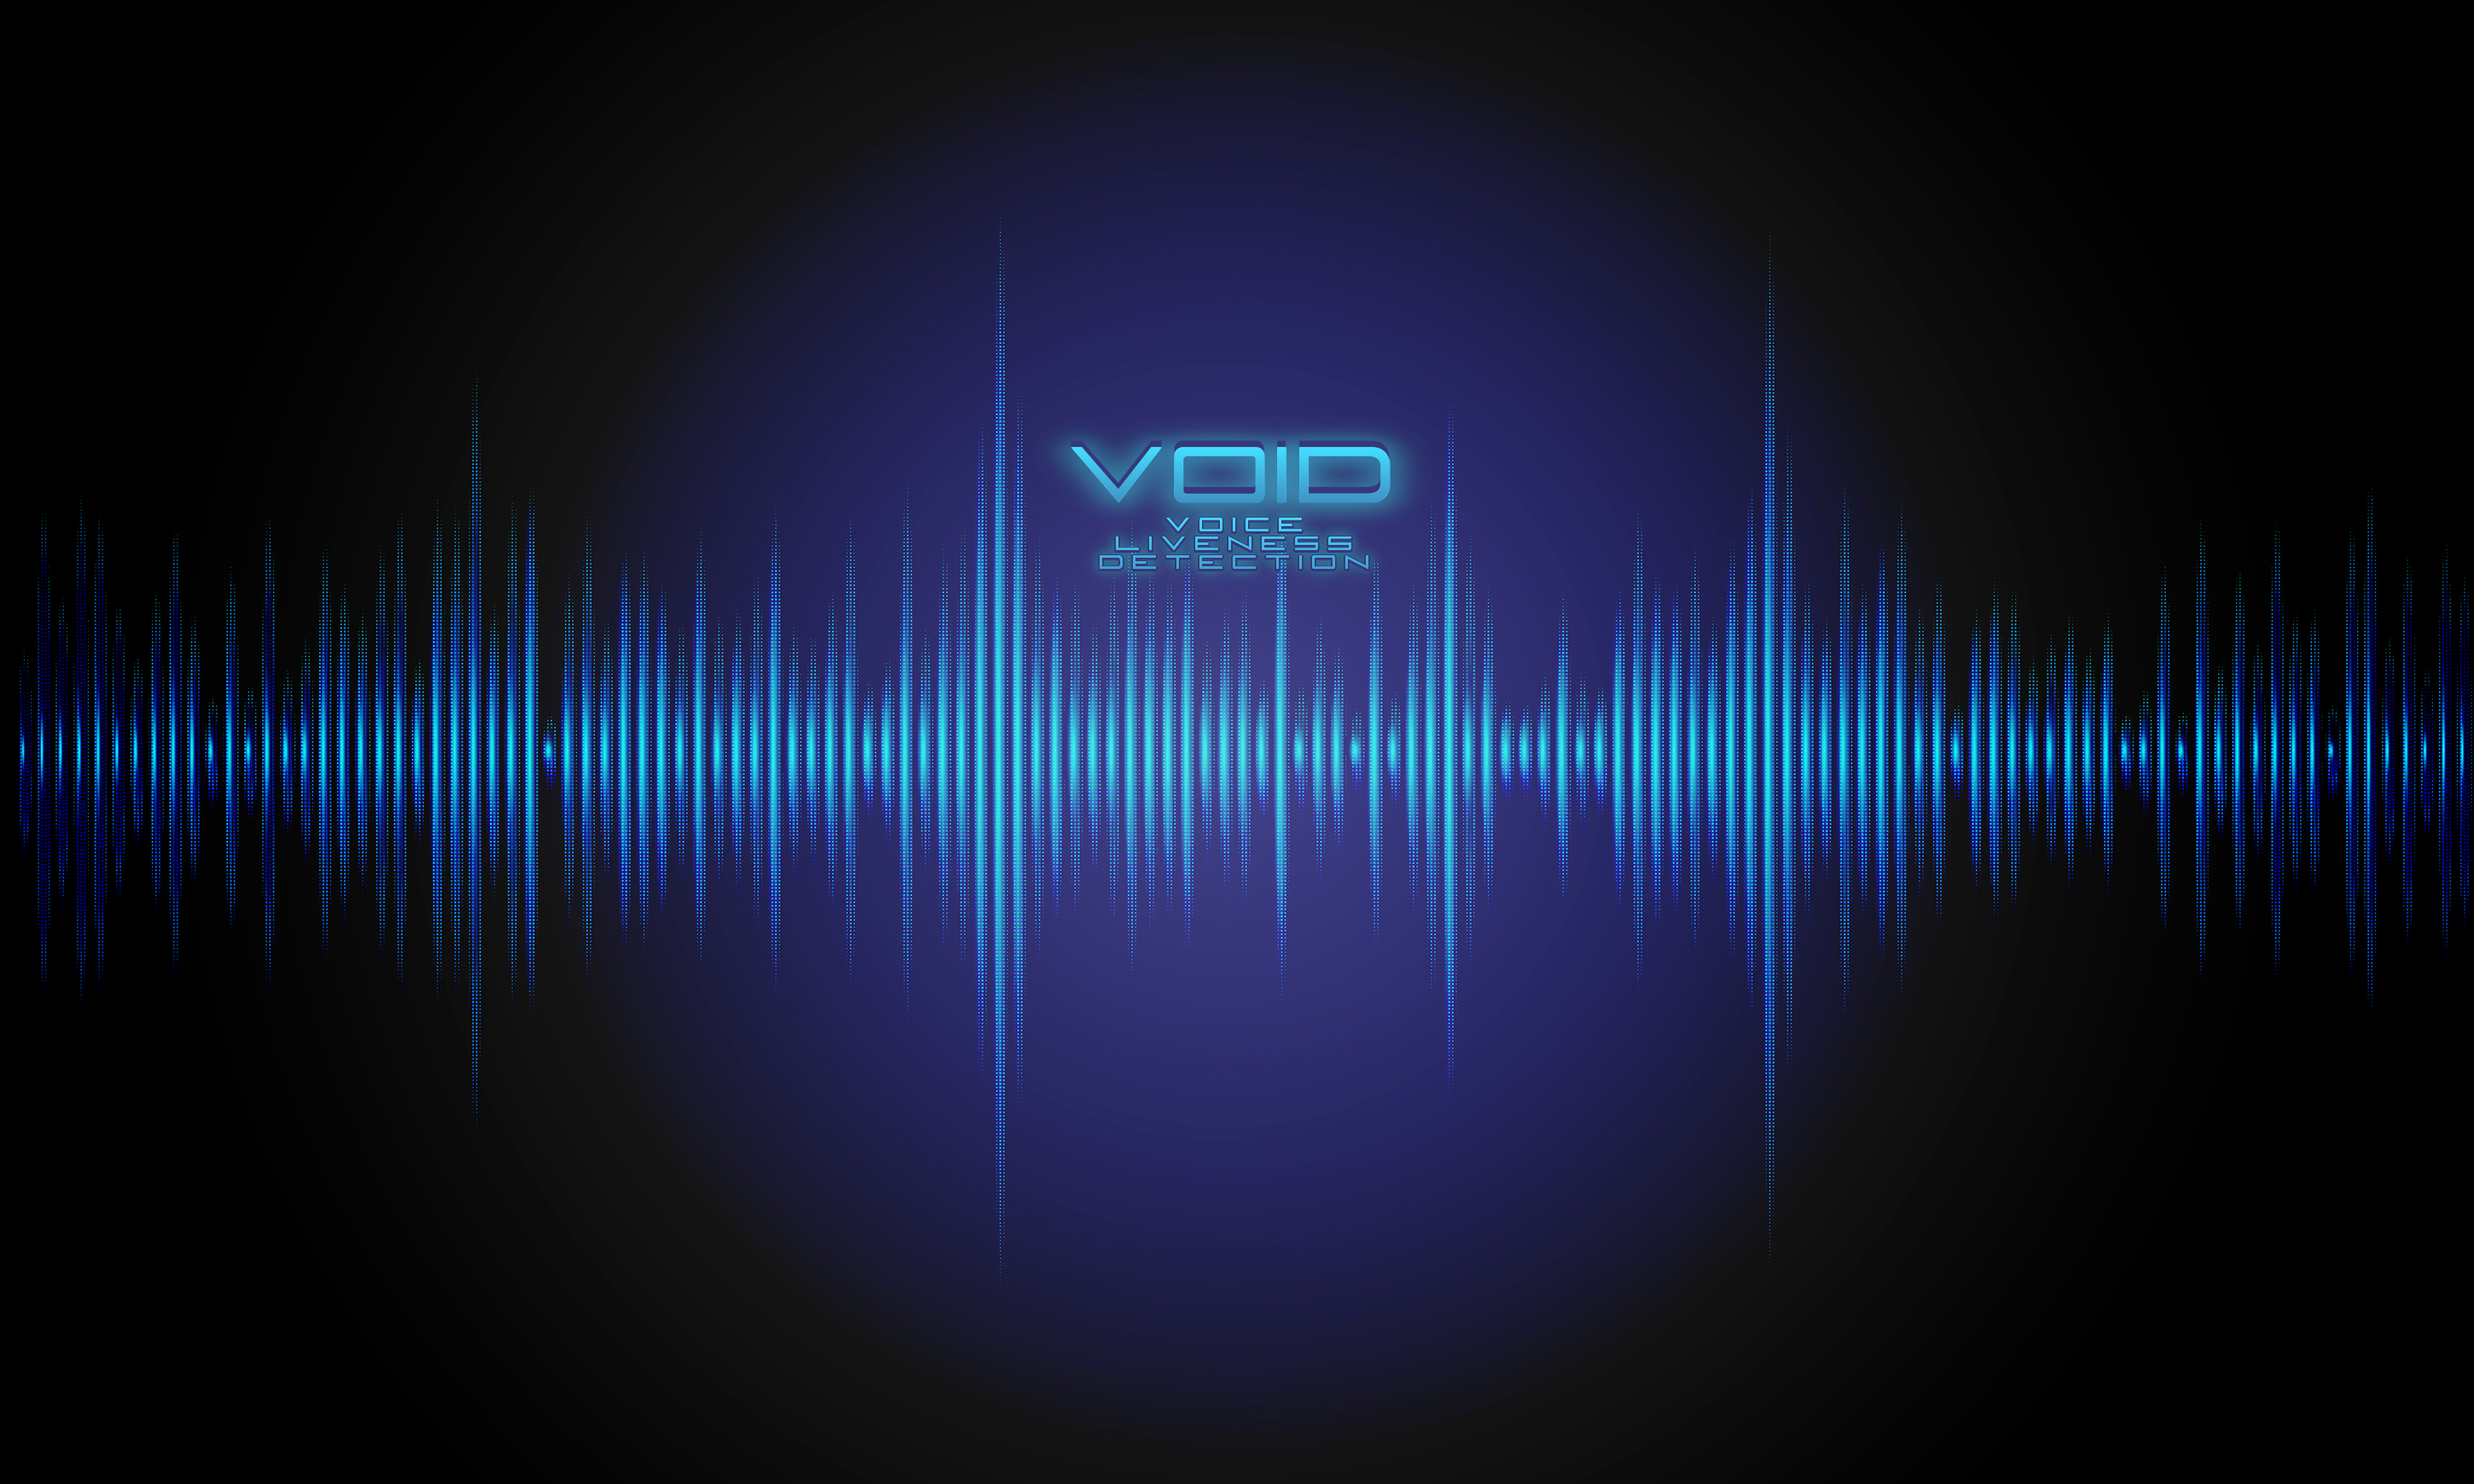
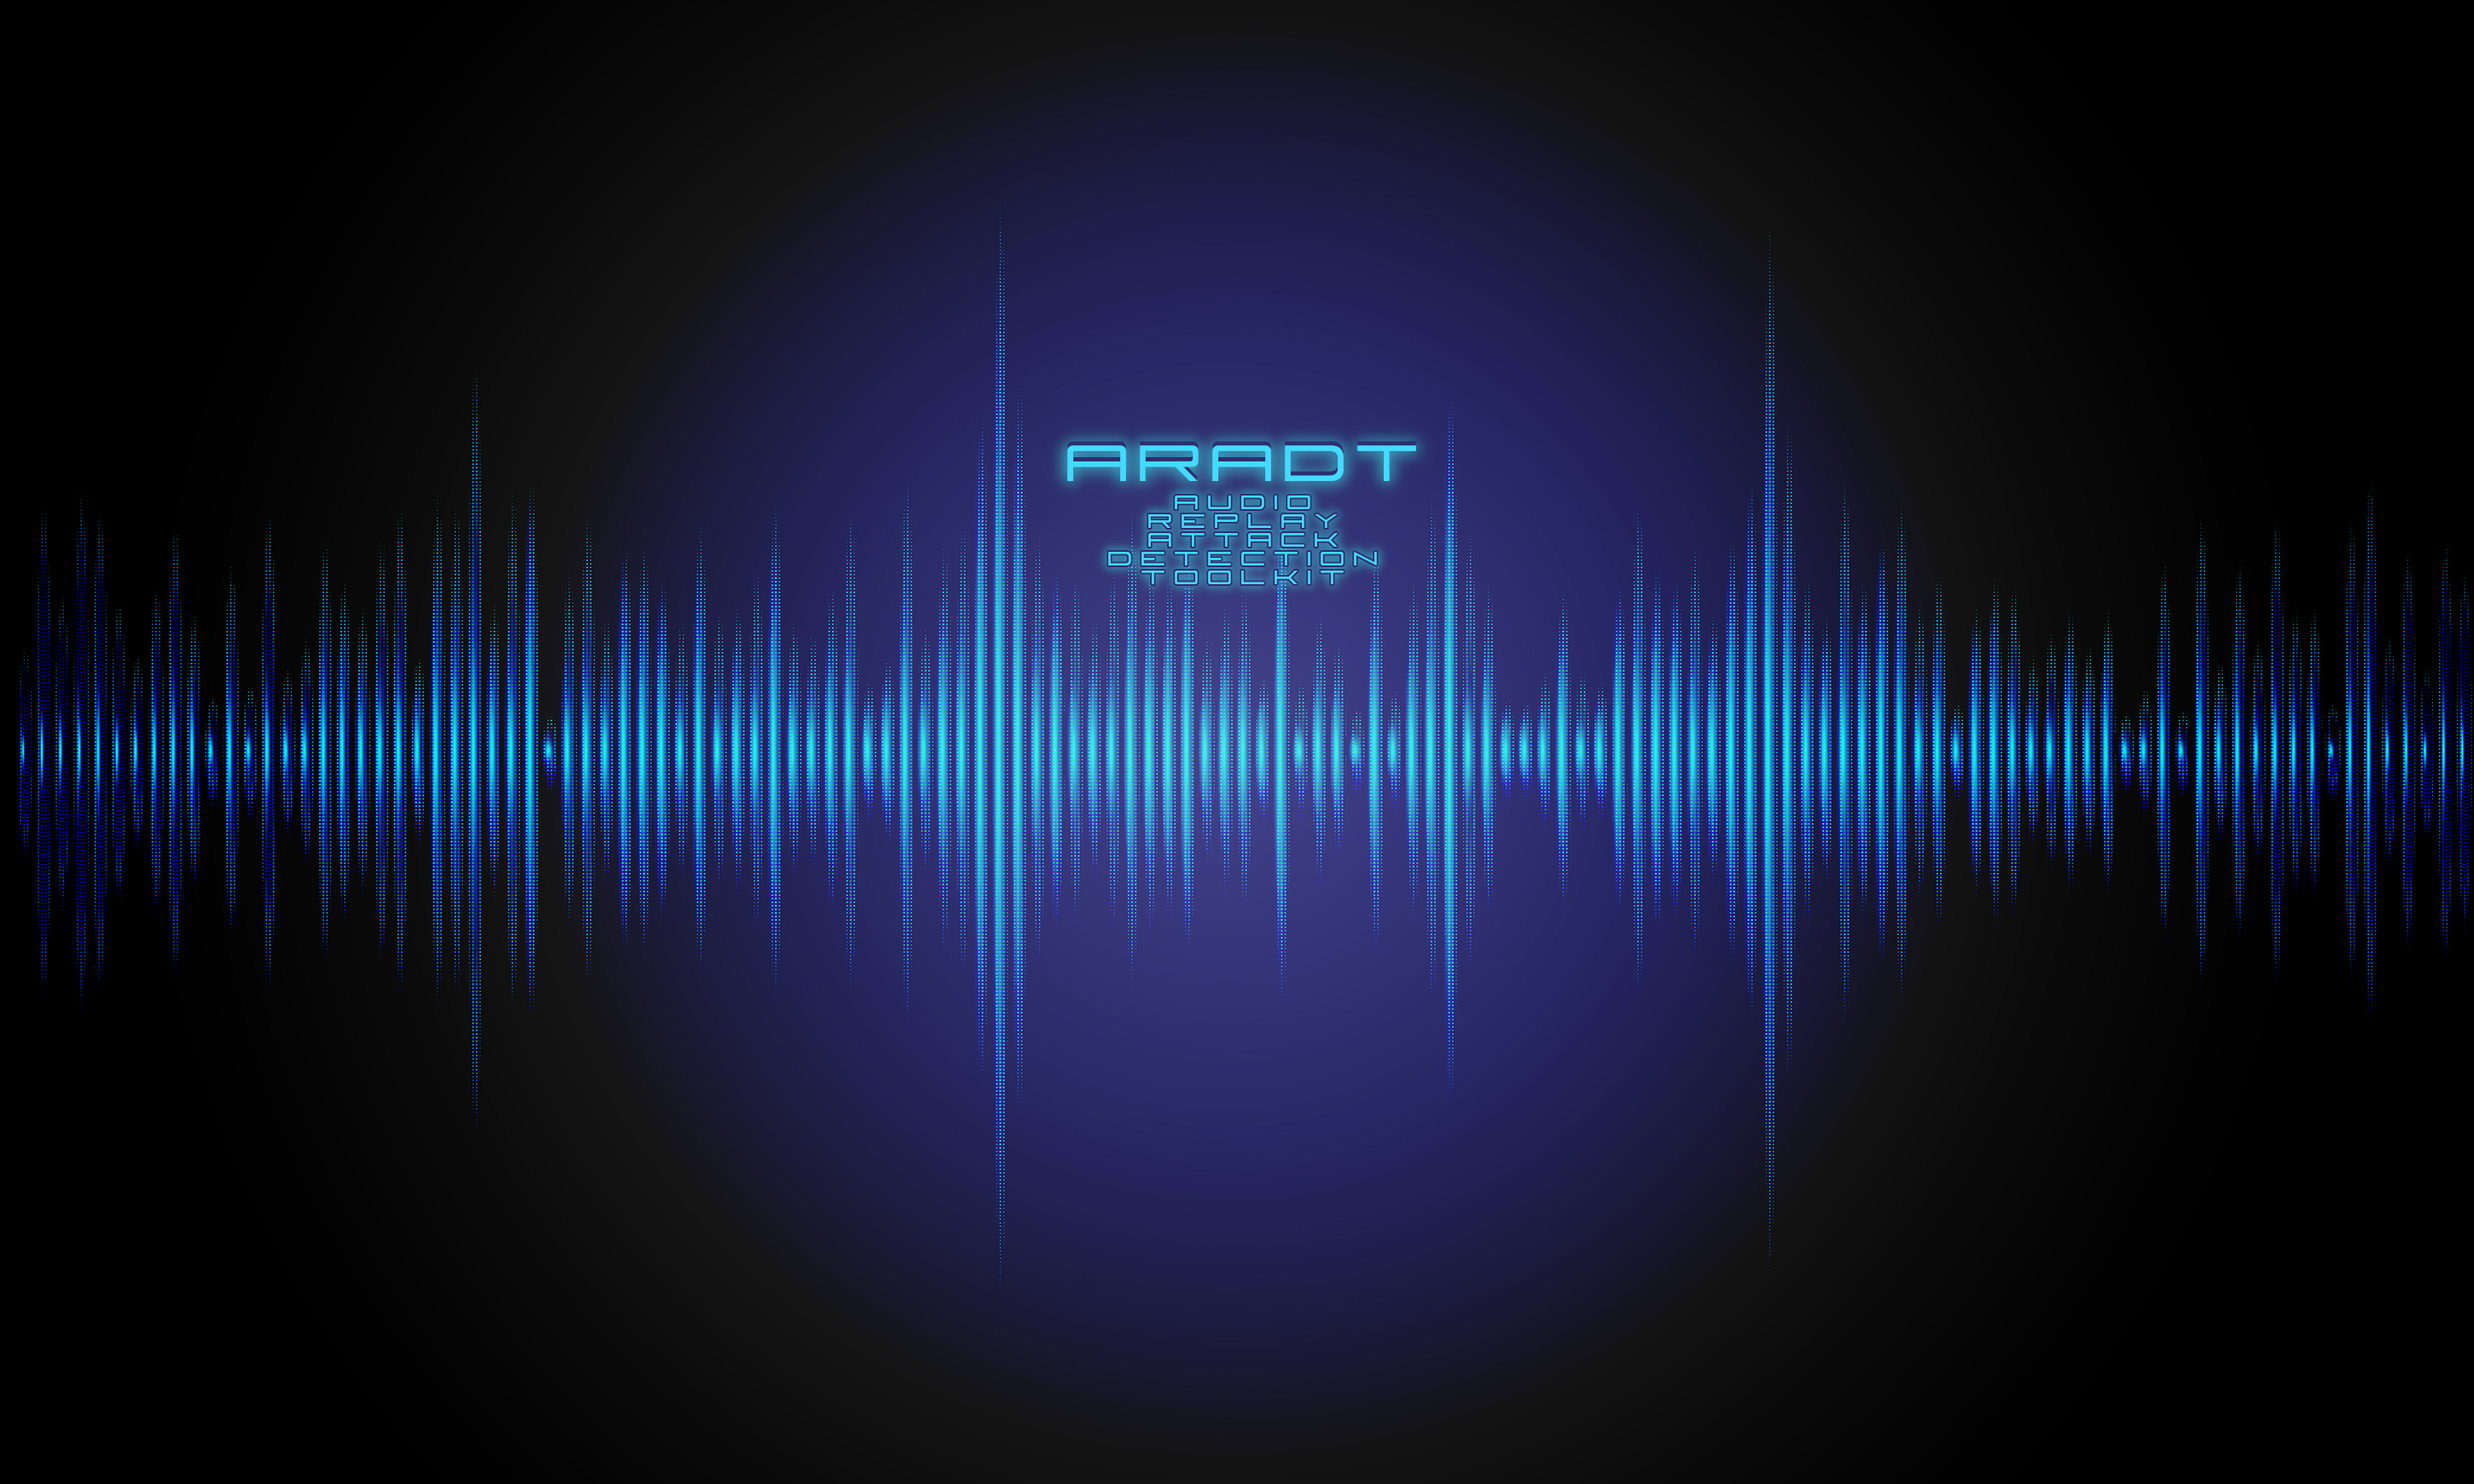
Improved Sample Loading/Storage functionality. Minor Button & Aesthetic Changes

Changed region(s): [[0.4345, 0.2793, 0.5897, 0.4034]]

diff --git a/Code/Main.py b/Code/Main.py
@@ -32,17 +32,43 @@ valid_models = ['SVM', 'svm', 'KNN', 'knn', 'nn', 'NN', 'mlp', 'MLP', 'RF', 'rf'
 def show_frame(frame):
     frame.tkraise()
 
-def load_samples():
-    global samples
+class SampleLoader():
+    def __init__(self):
+        self.samples = []
+        self.new_paths_list = []
+        self.error_str = ''
+        self.error = False
 
-    # Prompt User to Specify files to load in
-    samples  = filedialog.askopenfilenames(parent=frame1, initialdir='Samples/', title='Select Audio Files')
-    if samples:
-        print('Loaded in the following files: {}'.format(samples))
-        messagebox.showinfo('Samples Loaded!', 'The Selected Samples have been loaded in, click \'Store Samples\' to load them into the GUI Program')
-    else:
-        print('No files were selected')
-        messagebox.showinfo('Samples not Loaded!', 'No Audio Files were specified to be loaded in')
+        self.ask_for_samples()
+        self.load_samples()
+
+    def ask_for_samples(self):
+        self.samples  = filedialog.askopenfilenames(parent=frame1, initialdir='Samples/', title='Select Audio Files')
+        if len(self.samples) > 0:
+            print('Loaded in the following files: {}'.format(self.samples))
+        else:
+            print('No files were selected')
+            messagebox.showinfo('Samples not Loaded!', 'No Audio Files were specified to be loaded in')
+
+    def load_samples(self):
+        for sample in self.samples:
+            try:
+                new_path = shutil.copy(sample, 'Samples/')
+                self.new_paths_list.append(new_path)
+            except Exception as ex:
+                self.error_str += f'{ex}\n'
+                self.error = True
+                pass
+
+        if self.new_paths_list:
+            print('Selected Files have been stored in the Samples Directory')
+            print('New File Paths: {}'.format(self.new_paths_list))
+            messagebox.showinfo('Samples Stored!', f'Samples have been stored under Samples Directory\n\n{self.error_str}')
+            # Clear Buffer of previously selected files
+            self.samples = []
+            return
+        else:
+            messagebox.showinfo('No Samples to Store!', f'There were no samples to store\n\n{self.error_str}')
 
 def load_model():
     global loaded_model
@@ -55,32 +81,6 @@ def load_model():
     else:
         print('No model was selected')
         messagebox.showinfo('Model not Loaded!', 'No Model was Selected')
-
-def store_samples():
-    global samples
-
-    try:
-        if samples:
-            new_paths_list = []
-            for sample in samples:
-                new_path = shutil.copy(sample, 'Samples/')
-                new_paths_list.append(new_path)
-
-            if new_paths_list:
-                print('Selected Files have been stored in the Samples Directory')
-                print('New File Paths: {}'.format(new_paths_list))
-                messagebox.showinfo('Samples Stored!', 'The Selected Samples have been stored under /Samples Directory')
-
-            # Clear Buffer of previously selected files
-            samples = []
-        else:
-            print('There were no loaded samples to store')
-            messagebox.showinfo('Samples not Stored!', 'There were no Audio Files to store. Click \'Load Samples\' to specify files')
-    except Exception as ex:
-        print('Error: {}'.format(ex))
-        print('There were no loaded samples to store')
-        messagebox.showinfo('Samples not Stored!', 'There were no Audio Files to store. Click \'Load Samples\' to specify files')
-        pass
 
 def delete_samples():
     # Prompt User to Specify Samples to be deleted from GUI
@@ -652,7 +652,7 @@ class PopUpMsg():
             popup_canvas = Canvas(self.popup, width=1000, height=1000)
             popup_canvas.pack()
             # Add BG Image to Canvas
-            popup_canvas.create_image(500, 750, image=bg_photo, anchor=CENTER)
+            popup_canvas.create_image(500, 750, image=bg_popup_photo, anchor=CENTER)
             # Display Message
             self.textspace = Text(self.popup, bg='#2f2f6d', fg='white', font=('Candara', 12), pady=10)
             self.textspace.insert(0.0, self.display_str)
@@ -682,7 +682,7 @@ class PopUpMsg():
 
 # Define the Window onject
 window = Tk()
-window.title('VOID GUI')
+window.title('ARADT GUI')
 
 # Define Image
 bg_im = Image.open('Resources/IndexPageImage.png')
@@ -722,31 +722,28 @@ sample_button.place(relx=0.50, rely = 0.40, anchor=CENTER)
 model_management_button = Button(frame1, fg='#333276', background='#44DDFF', activebackground='#44DDFF', font=('Candara', 20, 'bold italic'), activeforeground='white', text='Model Management', padx=10, pady=10, command = lambda:show_frame(frame4))
 model_management_button.place(relx=0.50, rely = 0.55, anchor=CENTER)
 
-prediction_button = Button(frame1, fg='#333276', background='#44DDFF', activebackground='#44DDFF', font=('Candara', 20, 'bold italic'), activeforeground='white', text='ENTER THE VOID', padx=10, pady=10, command = lambda:show_frame(frame3))
+prediction_button = Button(frame1, fg='#333276', background='#44DDFF', activebackground='#44DDFF', font=('Candara', 20, 'bold italic'), activeforeground='white', text='Attack Detection', padx=10, pady=10, command = lambda:show_frame(frame3))
 prediction_button.place(relx=0.50, rely = 0.70, anchor=CENTER)
 
 # Exit Button
 exit_button = Button(frame1, fg='#333276', background='#44DDFF', activebackground='#44DDFF', font=('Candara', 20, 'bold italic'), activeforeground='white', text='Exit the App', padx=10, pady=10, command = window.destroy)
 exit_button.place(relx=0.5, rely=0.9, anchor=CENTER)
 
-frame1_title = Label(frame1, text='VOID GUI: Main Menu', bg='#44DDFF')
+frame1_title = Label(frame1, text='ARADT GUI: Main Menu', bg='#44DDFF')
 frame1_title.pack(fill='x')
 
 # ---------------------------- FRAME 2 CODE-----------------------------------
 # Displaying Background Image
 # Converting to ImageTk type so it can be placed in label
-bg_photo = ImageTk.PhotoImage(bg_im)
+bg_photo = ImageTk.PhotoImage(home_im)
+bg_popup_photo = ImageTk.PhotoImage(bg_im)
 f2_im_label = Label(frame2, image=bg_photo)
 f2_im_label.place(x=0, y=0, relwidth=1, relheight=1)
 
 # Defining Buttons
-# When pressed will prompt the User to specify which Samples to load into the 'samples' list
-load_samples_button = Button(frame2, fg='#333276', background='#44DDFF', activebackground='#44DDFF', font=('Candara', 20, 'bold italic'), activeforeground='white', text='Load in Sample/s', padx=10, pady=10, command = load_samples)
-load_samples_button.place(relx=0.50, rely=0.15, anchor=CENTER)
-
-# When pressed will Store the Samples in the 'samples' list into the GUI
-store_samples_button = Button(frame2, fg='#333276', background='#44DDFF', activebackground='#44DDFF', font=('Candara', 20, 'bold italic'), activeforeground='white', text='Store Sample/s', padx=10, pady=10, command = store_samples)
-store_samples_button.place(relx=0.50, rely=0.30, anchor=CENTER)
+# When pressed will prompt the user to specify a selection of samples to load into the 'Samples' directory
+load_samples_button = Button(frame2, fg='#333276', background='#44DDFF', activebackground='#44DDFF', font=('Candara', 20, 'bold italic'), activeforeground='white', text='Load Sample/s into ARADT', padx=10, pady=10, command = lambda: SampleLoader())
+load_samples_button.place(relx=0.50, rely=0.35, anchor=CENTER)
 
 # When pressed will ask User to specify Samples for deletion
 delete_samples_button = Button(frame2, fg='#333276', background='#44DDFF', activebackground='#44DDFF', font=('Candara', 20, 'bold italic'), activeforeground='white', text='Delete Samples', padx=10, pady=10, command = delete_samples)
@@ -758,11 +755,11 @@ record_one_button.place(relx=0.50, rely = 0.60, anchor=CENTER)
 
 # When pressed will record multiple Samples back to back
 record_mult_button = Button(frame2, fg='#333276', background='#44DDFF', activebackground='#44DDFF', font=('Candara', 20, 'bold italic'), activeforeground='white', text='Record Multiple Samples', padx=10, pady=10, command = lambda: handle_record('multiple'))
-record_mult_button.place(relx=0.50, rely = 0.75, anchor=CENTER)
+record_mult_button.place(relx=0.50, rely = 0.70, anchor=CENTER)
 
 # When this Button is pressed, the User can specify a number of Audio files, which will then be played back to back sequentially
 playback_samples_button = Button(frame2, fg='#333276', background='#44DDFF', activebackground='#44DDFF', font=('Candara', 20, 'bold italic'), activeforeground='white', text='Playback Sample/s', padx=10, pady=10, command = playback_samples)
-playback_samples_button.place(relx=0.50, rely = 0.90, anchor=CENTER)
+playback_samples_button.place(relx=0.50, rely = 0.85, anchor=CENTER)
 
 # When pressed will take User back to the main menu
 main_menu_button = Button(frame2, fg='#333276', background='#44DDFF', activebackground='#44DDFF', font=('Candara', 20, 'bold italic'), activeforeground='white', text='Main Menu', padx=10, pady=10, command = lambda:show_frame(frame1))
@@ -795,7 +792,7 @@ verify_predictions_button.place(relx=0.40, rely = 0.75, anchor=CENTER)
 f3_main_menu_button = Button(frame3, fg='#333276', background='#44DDFF', activebackground='#44DDFF', font=('Candara', 20, 'bold italic'), activeforeground='white', text='Main Menu', padx=10, pady=10, command = lambda:show_frame(frame1))
 f3_main_menu_button.place(relx=0.50, rely = 0.90, anchor=CENTER)
 
-frame3_title = Label(frame3, text='The VOID', bg='#44DDFF')
+frame3_title = Label(frame3, text='Prediction Screen', bg='#44DDFF')
 frame3_title.pack(fill='x')
 
 # ---------------------------- FRAME 4 CODE-----------------------------------
